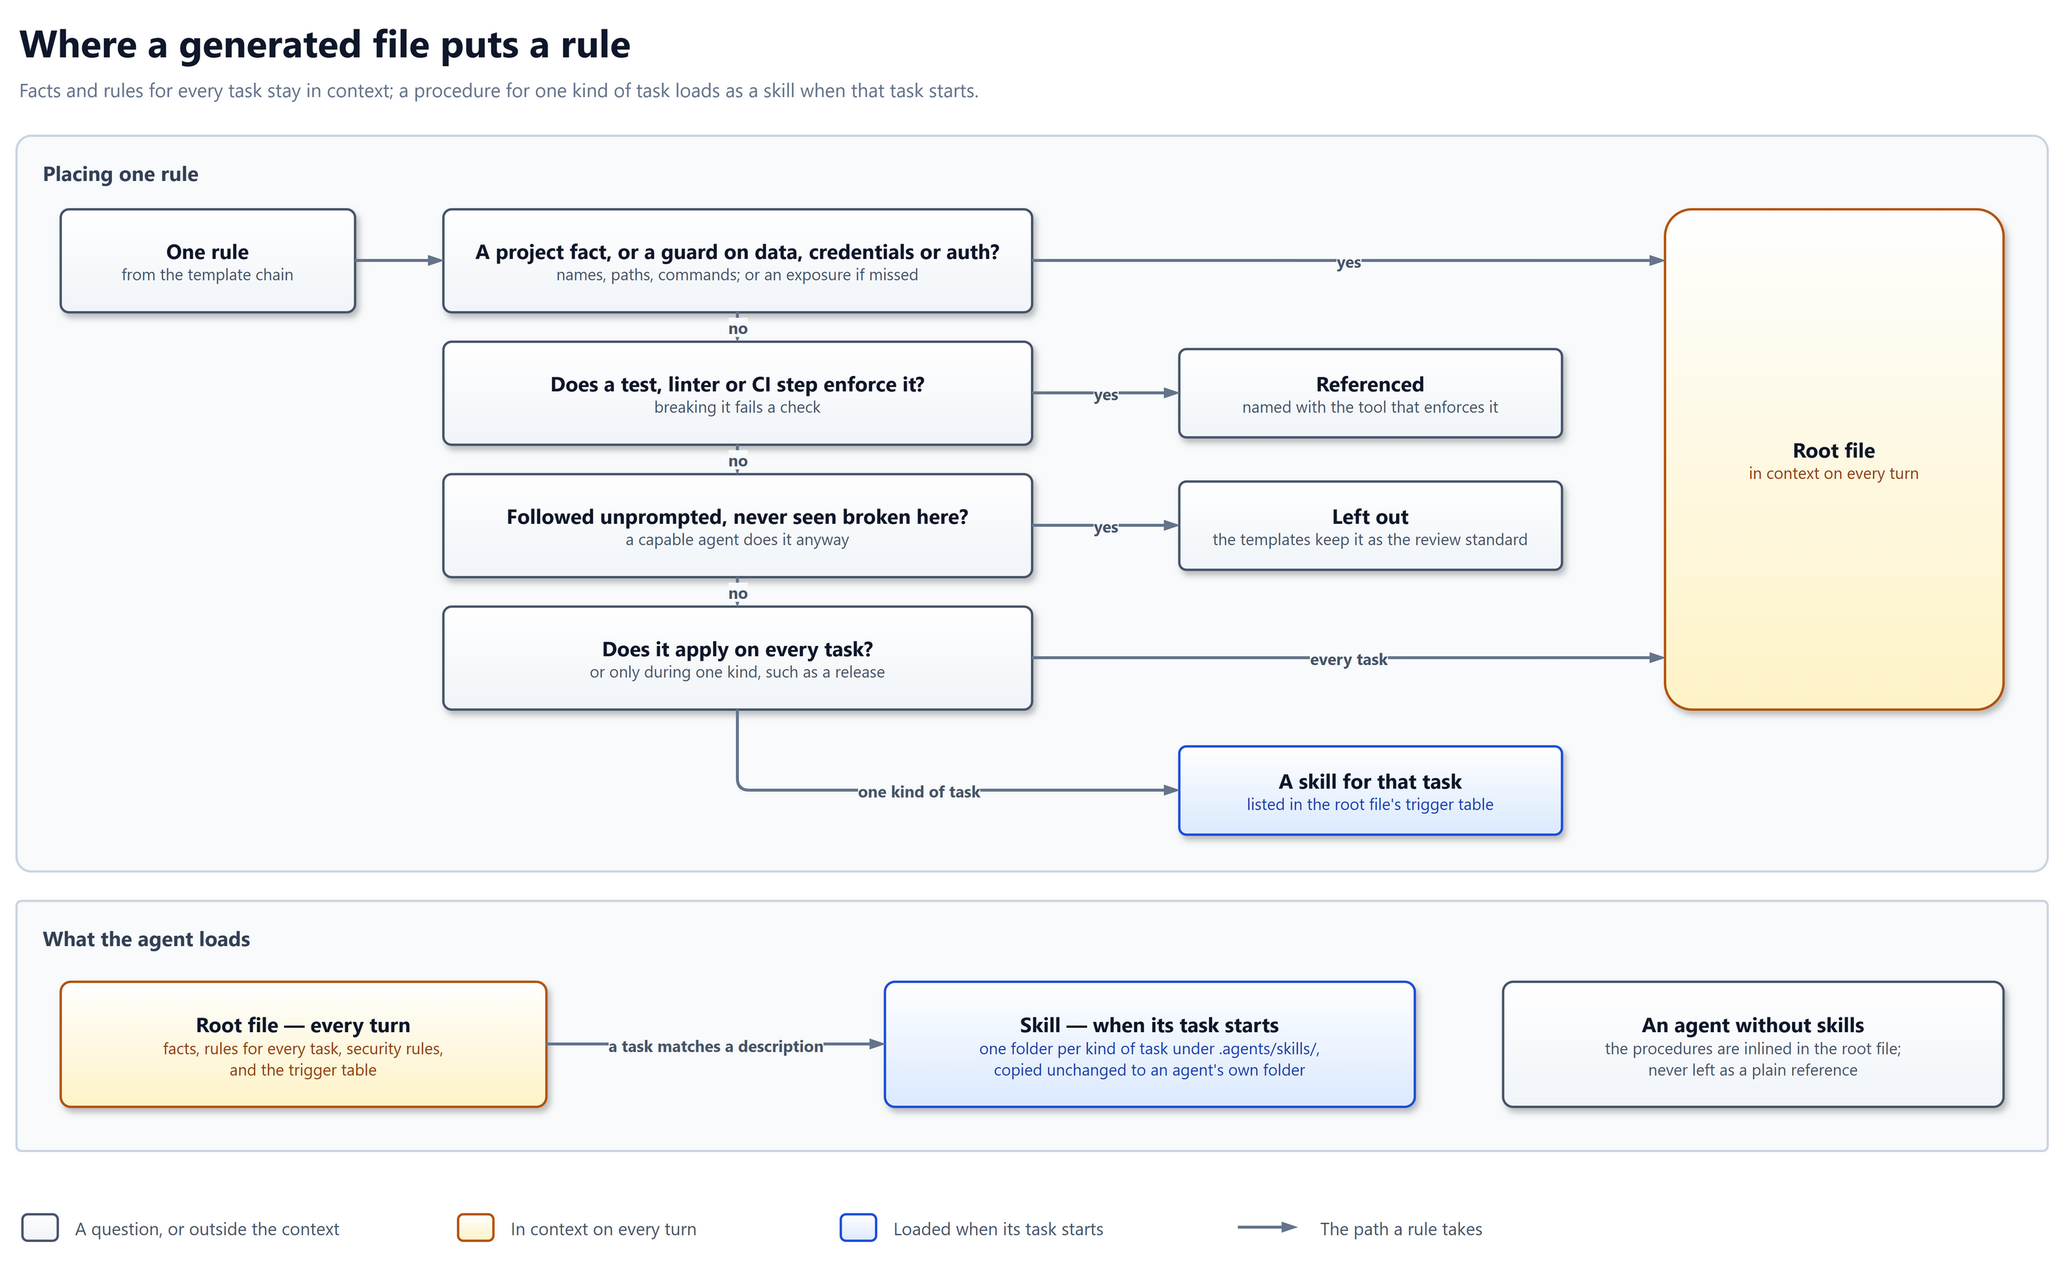
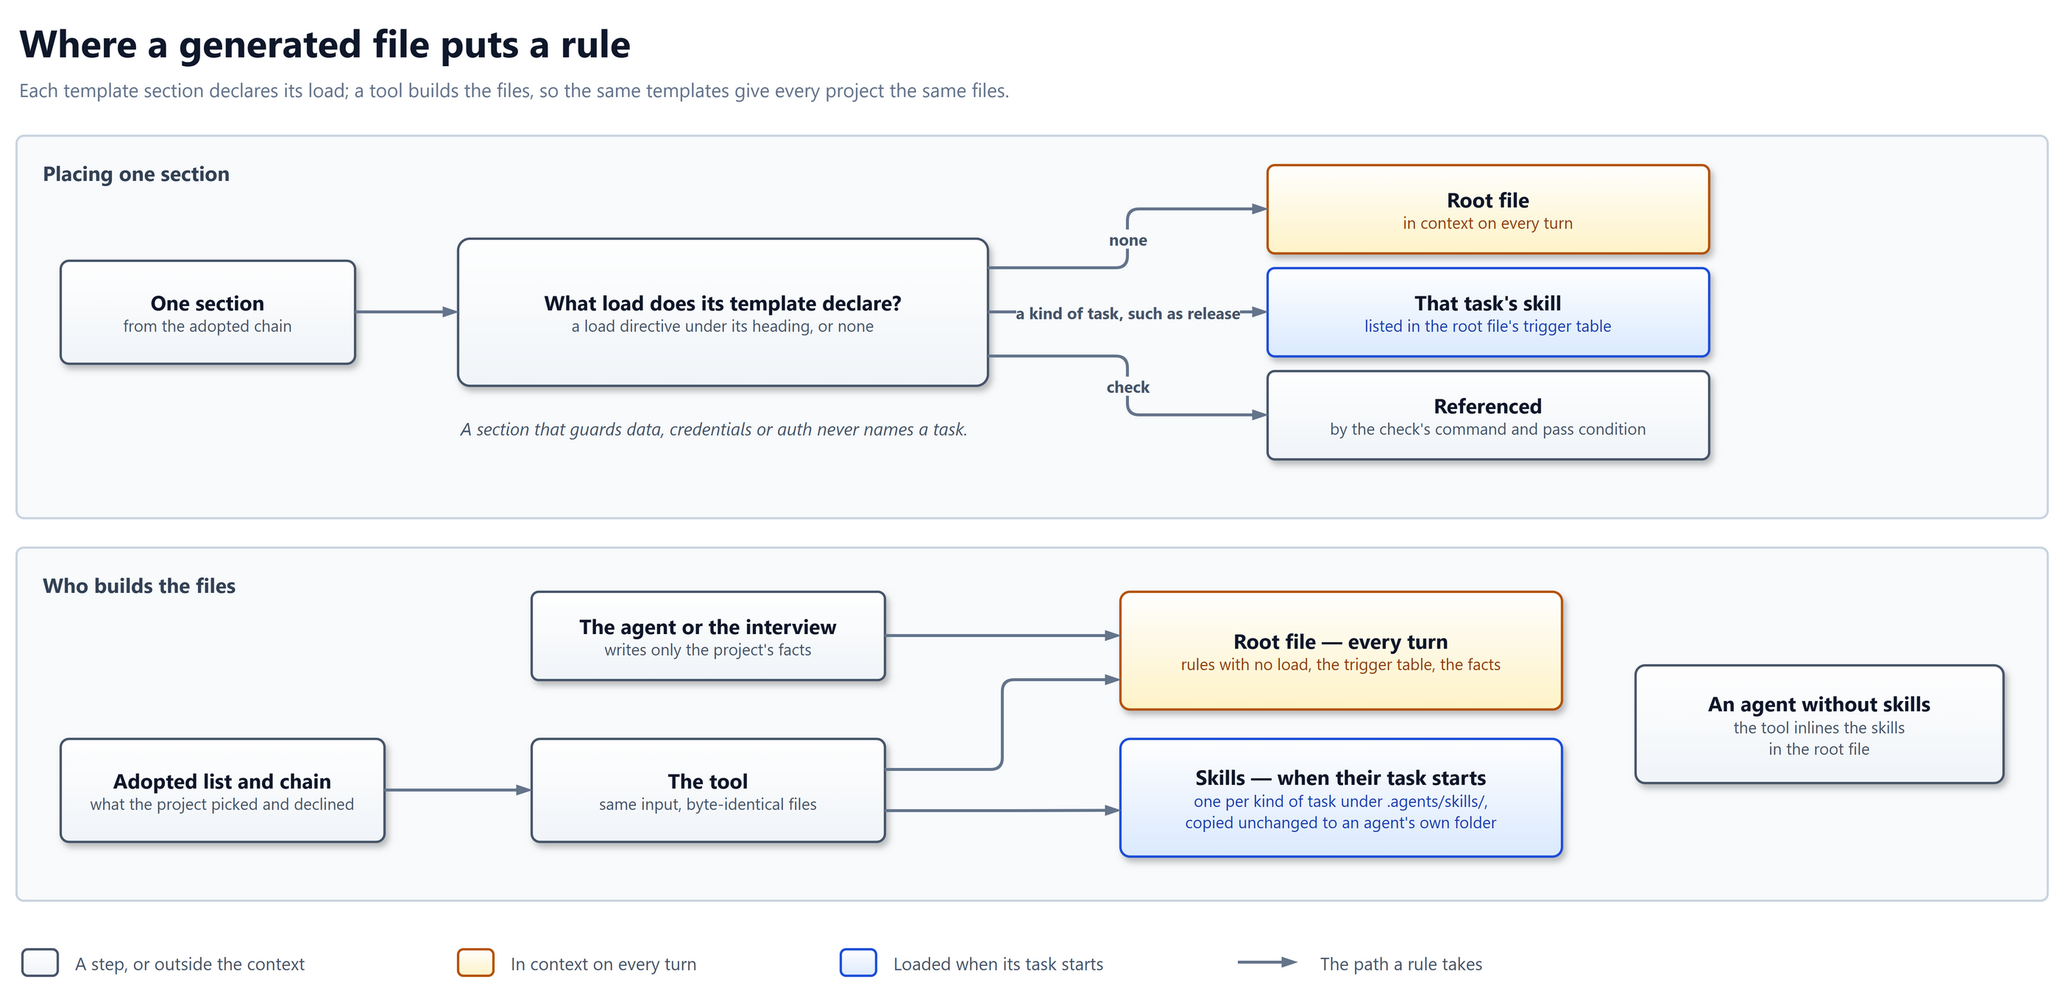
docs(adr): let the templates place each rule, and a tool build the files
Consistency across teams and agents is the goal, so placement moves out of the generating agent's judgement.

Part of #2376.

Claude-Session: https://claude.ai/code/session_01ECc81raGyKRf6DntJhY7hW

diff --git a/docs/decisions/058-task-procedures-load-on-demand.md b/docs/decisions/058-task-procedures-load-on-demand.md
@@ -7,13 +7,19 @@ supersedes: []
 superseded_by: []
 ---
 
-# ADR-058: Task procedures load on demand
+# ADR-058: Templates place each rule, and task procedures load on demand
 
 ## Context
 
-A generated context file copies most of its template chain, so an agent
-reads most of the library on every turn, whichever model generated the
-file (#2376).
+The templates exist to even out results across teams and agents: every
+project that picks the same templates should get the same grade, rather
+than one an A and another a D. A generated context file works against that
+twice (#2376).
+
+- It is long: it copies most of its template chain, so an agent reads most
+  of the library on every turn.
+- It varies: the generating agent decides which rules apply, which to
+  inline and which to leave out, and two agents decide differently.
 
 What four fresh generators produced from `main` at `ec00c4f3` on
 2026-10-26:
@@ -22,6 +28,11 @@ What four fresh generators produced from `main` at `ec00c4f3` on
 | -------- | ----------------------------- | ------------------------- |
 | Inline | 4,779 words, 74% of the chain | 7,184 words, 90% |
 | Hybrid | 4,921 words, 76% | 5,646 words, 70% |
+| Root file and skills, placed by the generator | 2,437 words, plus 9 skills | 2,198 words, plus 14 skills |
+
+The last row varies by generator: the smaller project got the larger root
+file, and each generator left out a different set of rules as practice an
+agent follows anyway.
 
 What fills the inline files, classed rule by rule:
 
@@ -42,8 +53,7 @@ What is settled:
   that apply on every task.
 - Length costs. In the 2026-10-17 round every file made the app 40–160%
   bigger, and with a weaker model every generated file lowered the share
-  of hidden tests passed. The one generated file that raised it had 39
-  lines.
+  of hidden tests passed.
 - A skill loads from its description when a task matches it. The format is
   an open standard, published in December 2025, that several coding
   agents report reading, most from `.agents/skills/`.
@@ -52,60 +62,54 @@ What is settled:
 
 ## Decision
 
-A generated context file keeps in context every project fact and every
-silent, unenforced rule that applies on every task; it delivers each
-procedure for one kind of task as a skill the agent loads when that task
-starts, and leaves out practice a capable agent follows unprompted.
+Each template section declares where its rules load, on every turn or for
+a named kind of task, and a tool builds the root file and one skill per
+kind of task from the adopted rules, so the same templates give every
+project the same files.
 
 ## Rationale
 
+- Same input, same files: placement is decided once, in the templates,
+  and a tool applies it. No generating agent judges which rules apply or
+  where they go.
 - Out of every turn: procedures, the largest class in the API file, load
-  only for their task. In the trial the root files fell 49% for the
-  library, and 61% to 69% for the API.
-- Nothing an agent must not miss is optional: rules for every task and
+  only for their task.
+- Nothing an agent must not miss is optional: unmarked sections and
   security rules stay in context, and no rule is left to a reference.
-- No dead weight: practice an agent follows anyway costs no context, and
-  the templates keep it as the standard a review applies.
 - One format for every agent: the open skill format, with the procedures
   inlined where an agent cannot load skills.
-- Scored: 68 of 100, two points ahead of today's hybrid file and of a hard
-  size budget, both at 66 (Scoring). The margin is why this record waits
-  for a benchmark round.
+- Scored: 77 of 100. The same split decided by each generator scores 62,
+  and today's hybrid file 61 (Scoring).
 
 ## Design
 
-![Where a generated file puts a rule: a project fact or a guard on data, credentials or auth goes in the root file; a rule a test, linter or CI step enforces is referenced; a rule followed unprompted and never seen broken is left out; a rule for every task goes in the root file, and one for one kind of task goes in that task's skill, listed in the trigger table. The root file is in context every turn, a skill loads when a task matches its description, and an agent without skills gets the procedures inlined](../diagrams/task-skills.png)
+![Where a generated file puts a rule: a template section declares its load. A section with no mark goes in the root file, in context on every turn; a section marked with a task, such as a release, goes in that task's skill, listed in the root file's trigger table; a section marked as checked is referenced with the check that enforces it. A tool builds the root file and the skills from the adopted rules, and the generating agent fills only the project's facts; an agent without skills gets the skills inlined in the root file](../diagrams/task-skills.png)
 
-Placement:
-
-| # | Rule | In practice |
-| - | ---- | ----------- |
-| 1 | The floor | No generated file delivers its rules by reference alone (MUST NOT) |
-| 2 | Facts and rules for every task | The root file holds the project's facts and every rule that is silent, unenforced and applies on every task (MUST) |
-| 3 | Security stays | A rule whose breaking exposes data, credentials or an unauthenticated path stays in the root file, even when it applies to one kind of task (MUST) |
-| 4 | Obligation or technique | An obligation for every change, such as testing what changed, goes in the root file. The technique for meeting it, such as isolating a test, goes in the skill for the task that uses it |
-| 5 | Unprompted practice | A rule a capable agent follows unprompted is left out of the root file and the skills (SHOULD NOT inline). A rule the project has seen broken is inlined (MUST) |
-| 6 | Enforced rules | A rule a test, linter or CI step enforces is referenced (SHOULD). Without the templates in the tree, the reference names the tool and its configuration |
-| 7 | One home | A rule sits in the root file or in one skill (MUST). A skill may point to a root-file rule, never restate it |
-
-Skills:
+In the templates:
 
 | # | Rule | In practice |
 | - | ---- | ----------- |
-| 8 | Task procedures | A rule that applies only during one kind of task, such as a release, a migration or verifying a finding, goes in that task's skill (SHOULD) |
-| 9 | One kind of task each | A skill covers one kind of task, never a single rule; a one-line procedure joins the skill for its task (MUST) |
+| 1 | The load directive | A section MAY carry a load directive under its heading, naming a kind of task, such as `release`, or `check` for a section a check enforces. A section without one loads on every turn |
+| 2 | One vocabulary | The manifest lists the kinds of task, each with the description its skill carries. A load directive names only a listed kind (MUST); a fork MAY add kinds of its own |
+| 3 | One load per section | A section that mixes rules for every turn with a procedure for one task is split, so each section has one load (MUST) |
+| 4 | Security stays | A section whose breaking exposes data, credentials or an unauthenticated path carries no task directive (MUST NOT) |
+| 5 | No unprompted practice | A rule an agent follows unprompted is removed from the template in review, never left out by a generator |
+
+In the generated files:
+
+| # | Rule | In practice |
+| - | ---- | ----------- |
+| 6 | The floor | No generated file delivers its rules by reference alone (MUST NOT) |
+| 7 | Built by a tool | A tool builds the rules of the root file and the skills from the chain and the project's adopted list, copying each rule's text unchanged. The same input gives byte-identical files (MUST) |
+| 8 | Adoption is declared | A section the project does not adopt is named in its adopted list. The tool reads the list; no agent judges what applies (MUST) |
+| 9 | Facts by the agent | The generating agent or the interview writes only the project's facts into the root file's slots: names, paths, commands, approvals |
 | 10 | The trigger table | The root file lists each skill with the task that triggers it (MUST) |
-| 11 | One format | The open Agent Skills format: a folder holding `SKILL.md`, whose frontmatter carries `name` and a `description` naming the task that triggers it. The body names no agent-specific mechanism (MUST) |
-| 12 | One source, mirrored | Each skill is generated once, under `.agents/skills/<name>/`, and copied unchanged where an agent reads only a folder of its own, such as `.claude/skills/`. A copy is never edited by hand (MUST) |
-| 13 | No skill support | Where the project's agent cannot load skills on demand, the procedures are inlined in the root file (MUST) |
-
-The file:
-
-| # | Rule | In practice |
-| - | ---- | ----------- |
-| 14 | Checks by command | The root file and every skill state a check by its command and pass condition, never by copying a script body (MUST) |
+| 11 | One format | The open Agent Skills format: a folder holding `SKILL.md`, whose frontmatter carries `name` and the kind's `description`. The body names no agent-specific mechanism (MUST) |
+| 12 | One source, mirrored | Each skill is built once, under `.agents/skills/<kind>/`, and copied unchanged where an agent reads only a folder of its own, such as `.claude/skills/`. A copy is never edited by hand (MUST) |
+| 13 | No skill support | Where the project's agent cannot load skills on demand, the tool inlines the skills in the root file (MUST) |
+| 14 | Checked sections | A section marked `check` is referenced by its command and pass condition, never by copying a script body (MUST) |
 | 15 | The model's name | The overview states `Model: root and skills` |
-| 16 | Length reported | The generator reports the root file's line and word count (MUST). This record sets no size limit |
+| 16 | Size published | The root file's and each skill's word count per root is generated into the documentation, so a change to a template shows its cost (MUST) |
 
 ## Alternatives considered
 
@@ -114,39 +118,43 @@ score out of 100 (Scoring):
 
 | # | Alternative | Score | Outcome |
 | - | ----------- | ----- | ------- |
-| A | A root file for facts and rules for every task, a skill per kind of task | 68 | Chosen: procedures leave every turn, and every rule an agent must not miss stays |
-| B | Hybrid, as today | 66 | Measured at 70–76% of the chain, and length is a cost in the benchmark |
-| C | Inline everything | 63 | Up to 90% of the chain on every turn; the full inline file did worse than no file in the 2026-10-17 round |
-| D | A hard size budget, such as 40 lines | 66 | The rules for every task alone exceed it, so a budget drops habit counters and security rules rather than procedures |
-| E | Plain references with a trigger table | 57 | A plain reference has no loading mechanism, and the consumer failure shows what that costs |
-| F | Rules scoped by file path | 49 | Loads on the files touched, not the task started; a release or a review touches no single path, and the mechanism differs per agent |
+| A | Templates declare each section's load, and a tool builds the root file and skills | 77 | Chosen: the same templates give the same files, and procedures leave every turn |
+| B | The same split, decided by each generating agent | 62 | Two generators placed the same rules differently, so results vary by agent and run |
+| C | Hybrid, as today | 61 | Measured at 70–76% of the chain, and the generator still judges what to inline |
+| D | Inline everything | 61 | Up to 90% of the chain on every turn; the full inline file did worse than no file in the 2026-10-17 round |
+| E | A hard size budget, such as 40 lines | 61 | The rules for every task alone exceed it, so what to cut is left to each generator |
+| F | Plain references with a trigger table | 56 | A plain reference has no loading mechanism, and the consumer failure shows what that costs |
+| G | Rules scoped by file path | 50 | Loads on the files touched, not the task started, and the mechanism differs per agent |
 
 ## Consequences
 
 | Consequence | Effect |
 | ----------- | ------ |
-| `agents.md` | States the placement, the trigger table and the skill rules, and its model table shows root and skills (#2376) |
-| `agents.md` gaps | Closes what the 2026-10-26 generators filled by invention: a checkable rule with no tool, a missing end-of-session checklist, an override order for a single rule source (#2376) |
-| Baseline | The four 2026-10-26 files are regenerated under this record, and their counts recorded beside the baseline (#2376) |
-| Forks | The interview applies the placement. A benchmark round compares root and skills with hybrid and with no file; worse than hybrid on adherence or on the judge's security and data-protection rows reopens this record |
-| Open | Which rules count as unprompted practice stays a generator's judgement until a round measures it. Two generators given the same rules put 2,437 and 2,198 words in their root files, the larger for the smaller project (#2376) |
+| Templates | Each section that holds a task procedure gets a load directive, and mixed sections are split. Splitting is cheapest before the 3.0.0 tag freezes the headings a section holds; after it, a procedure moves to a new section at the end of its file |
+| Template review | Practice an agent follows unprompted is removed, so no generator has to leave it out |
+| Manifest | An optional `tasks:` list: each kind's name and description |
+| Tool | The resolver gains a mode that builds the root file's rules and the skills from a chain and an adopted list; a smoke check asserts two runs give identical files |
+| `agents.md` | States the load directive, the trigger table and the skill rules, and its model table shows root and skills. It closes the gaps the 2026-10-26 generators filled by invention: a checkable rule with no tool, a missing end-of-session checklist, an override order for a single rule source |
+| Documentation | A generated table of root-file and skill words per root |
+| Forks | The interview records the adopted list and the facts. A benchmark round compares root and skills with hybrid and with no file, scored by the spread across runs and projects as well as the mean; worse than hybrid on adherence or on the judge's security and data-protection rows reopens this record |
 
 ## Compatibility
 
 A project's existing file keeps working: nothing it names is removed. Its
 next regeneration produces a root file and skills where its agent loads
-skills, and a hybrid file otherwise. Skills are files the project may
-decline, which leaves today's hybrid file.
+skills, and one root file otherwise. A section without a load directive
+loads on every turn, so a template or a fork that adds none generates what
+inline generates today.
 
 ## Security
 
-- Protects: every rule whose breaking exposes data, credentials or an
-  unauthenticated path stays in the root file, so none depends on a skill
-  loading.
+- Protects: a section that guards data, credentials or authentication
+  carries no task directive, so it is in context on every turn and depends
+  on no skill loading.
 - Exposes: a procedure in a skill whose trigger is missed is not read for
-  that task. The trigger table and the description guard it.
-- Trust boundary: a skill is a file in the project's tree, under the same
-  review as the context file.
+  that task. The trigger table and the kind's description guard it.
+- Trust boundary: a skill is a file in the project's tree, built by the
+  tool and under the same review as the context file.
 
 ## Scoring
 
@@ -156,42 +164,45 @@ weight times score, divided by 5, so 100 is the best.
 
 | Criterion | Weight | Why it weighs this much |
 | --------- | ------ | ----------------------- |
-| Context per turn | 25 | The agent's view: the words it reads before the task, which the benchmark shows cost size and correctness |
-| Rules that must not be missed | 25 | The project's view: rules for every task and security rules in context with no cue needed |
-| Evidence | 15 | The maintainer's view: how far a measured result supports the option |
-| Works with every agent | 15 | The consumer's view: one generated set serves whichever agent a team uses |
-| Generator consistency | 10 | The reviewer's view: two generators given the same chain place rules alike |
-| Maintenance | 10 | What it costs to keep templates, `agents.md` and generated files in step |
+| Consistency | 25 | The maintainer's goal: the same templates give the same files and the same grade, whichever team or agent generates them |
+| Context per turn | 20 | The agent's view: the words it reads before the task, which the benchmark shows cost size and correctness |
+| Rules that must not be missed | 20 | The project's view: rules for every task and security rules in context with no cue needed |
+| Evidence | 15 | How far a measured result supports the option |
+| Works with every agent | 10 | The consumer's view: one generated set serves whichever agent a team uses |
+| Maintenance | 10 | What it costs to keep templates, the tool and generated files in step |
 
 The score matrix, one column per alternative, A being this decision:
 
-| Criterion | Weight | A | B | C | D | E | F |
-| --------- | ------ | - | - | - | - | - | - |
-| Context per turn | 25 | 4 | 1 | 1 | 5 | 4 | 3 |
-| Rules that must not be missed | 25 | 4 | 5 | 5 | 1 | 1 | 3 |
-| Evidence | 15 | 2 | 3 | 2 | 3 | 1 | 1 |
-| Works with every agent | 15 | 4 | 5 | 5 | 5 | 5 | 2 |
-| Generator consistency | 10 | 2 | 2 | 3 | 2 | 3 | 3 |
-| Maintenance | 10 | 3 | 4 | 3 | 4 | 4 | 2 |
-| Score, of 100 | | 68 | 66 | 63 | 66 | 57 | 49 |
+| Criterion | Weight | A | B | C | D | E | F | G |
+| --------- | ------ | - | - | - | - | - | - | - |
+| Consistency | 25 | 5 | 2 | 2 | 3 | 2 | 3 | 3 |
+| Context per turn | 20 | 4 | 4 | 1 | 1 | 5 | 4 | 3 |
+| Rules that must not be missed | 20 | 4 | 4 | 5 | 5 | 1 | 1 | 3 |
+| Evidence | 15 | 2 | 2 | 3 | 2 | 3 | 1 | 1 |
+| Works with every agent | 10 | 4 | 4 | 5 | 5 | 5 | 5 | 2 |
+| Maintenance | 10 | 3 | 3 | 4 | 3 | 4 | 4 | 2 |
+| Score, of 100 | | 77 | 62 | 61 | 61 | 61 | 56 | 50 |
 
 Sensitivity: each row raises one criterion's weight and lowers the other
 five in proportion, so the weights still total 100.
 
 | Alternative | Where it beats A | Weight now | It wins above |
 | ----------- | ---------------- | ---------- | ------------- |
-| B | Rules that must not be missed | 25 | About 32 |
-| B | Evidence | 15 | About 23 |
-| B | Works with every agent | 15 | About 23 |
-| B | Maintenance | 10 | About 18 |
-| C | Rules that must not be missed | 25 | About 40 |
-| D | Context per turn | 25 | About 32 |
-| D | Evidence | 15 | About 23 |
-| D | Works with every agent | 15 | About 23 |
-| E | Works with every agent | 15 | About 45 |
-| F | Generator consistency | 10 | About 54 |
+| B | — | — | Never: it scores no higher than A on any criterion |
+| C | Rules that must not be missed | 20 | About 56 |
+| C | Evidence | 15 | About 53 |
+| C | Works with every agent | 10 | About 50 |
+| C | Maintenance | 10 | About 50 |
+| D | Rules that must not be missed | 20 | About 56 |
+| D | Works with every agent | 10 | About 50 |
+| E | Context per turn | 20 | About 56 |
+| E | Evidence | 15 | About 53 |
+| E | Works with every agent | 10 | About 50 |
+| E | Maintenance | 10 | About 50 |
+| F | Works with every agent | 10 | About 56 |
+| F | Maintenance | 10 | About 56 |
+| G | — | — | Never: it scores no higher than A on any criterion |
 
-The margin is thin. Hybrid wins if evidence weighs a half more than it
-does, and a size budget wins if context per turn weighs about a quarter more.
-A benchmark round that measures A raises its evidence score and settles
-which.
+No alternative is close: each needs one criterion weighed more than twice
+what it is. The weakest score of A is its evidence, which a benchmark
+round that measures it settles.
